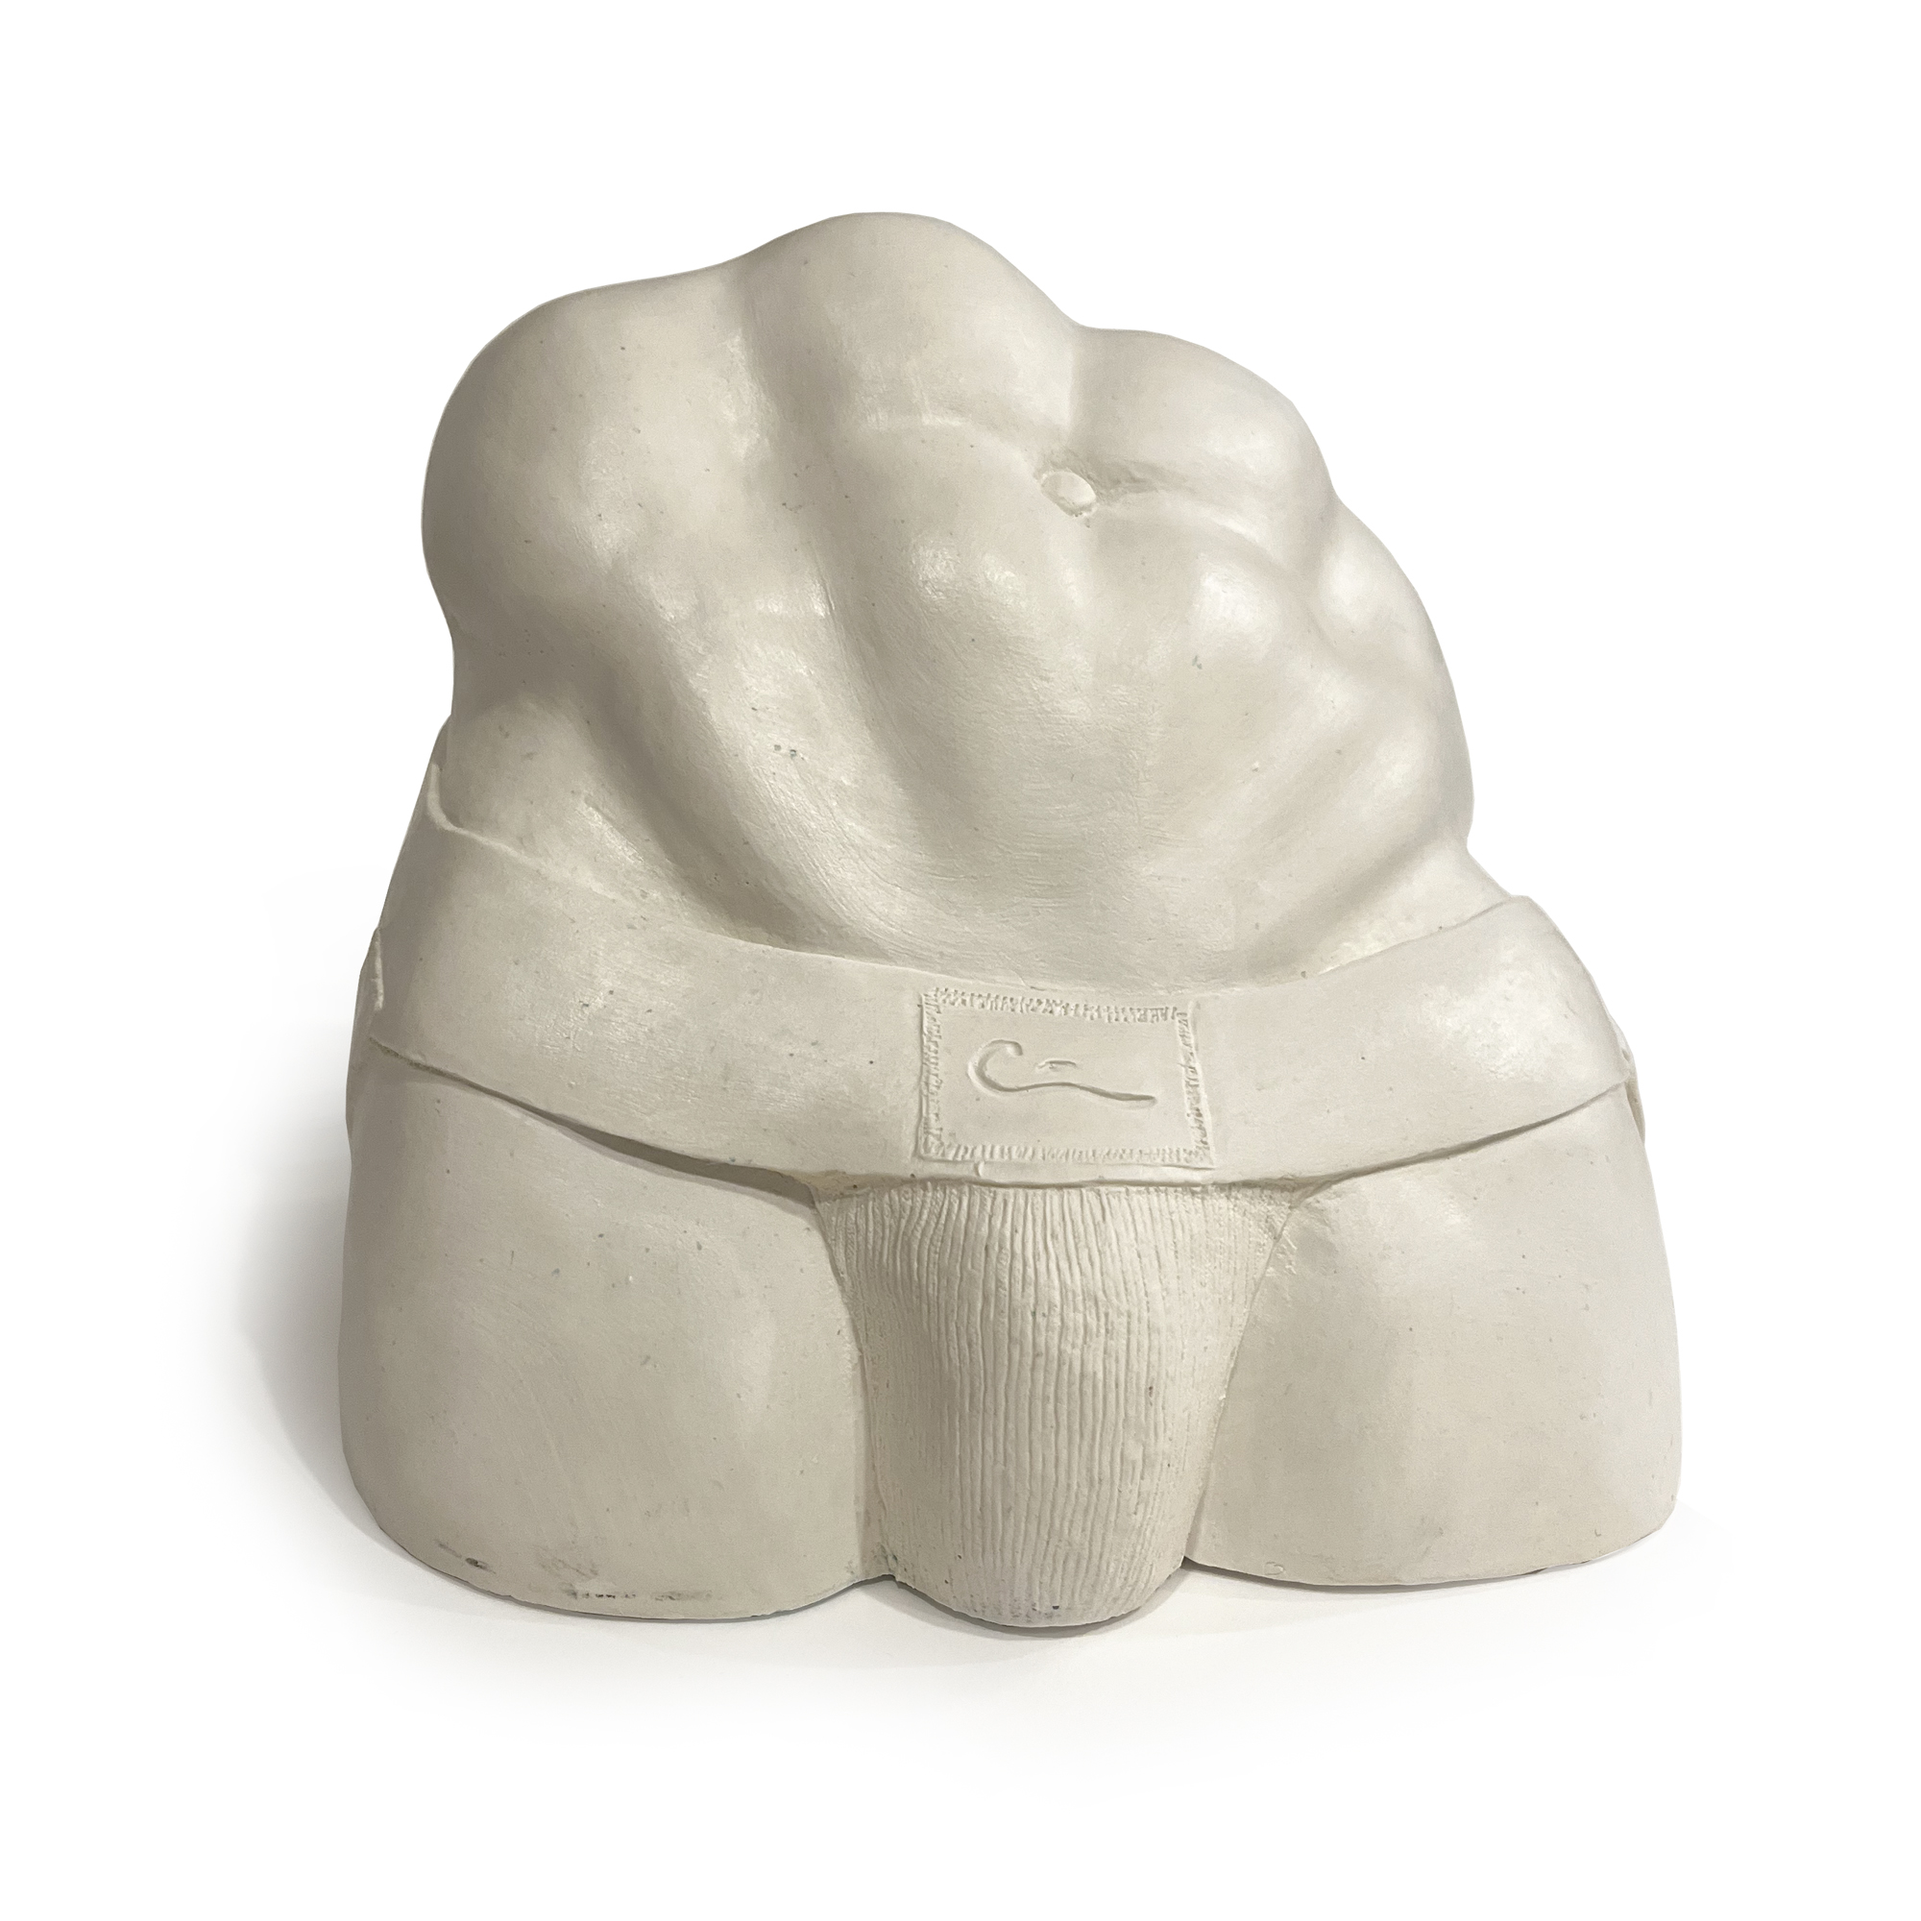
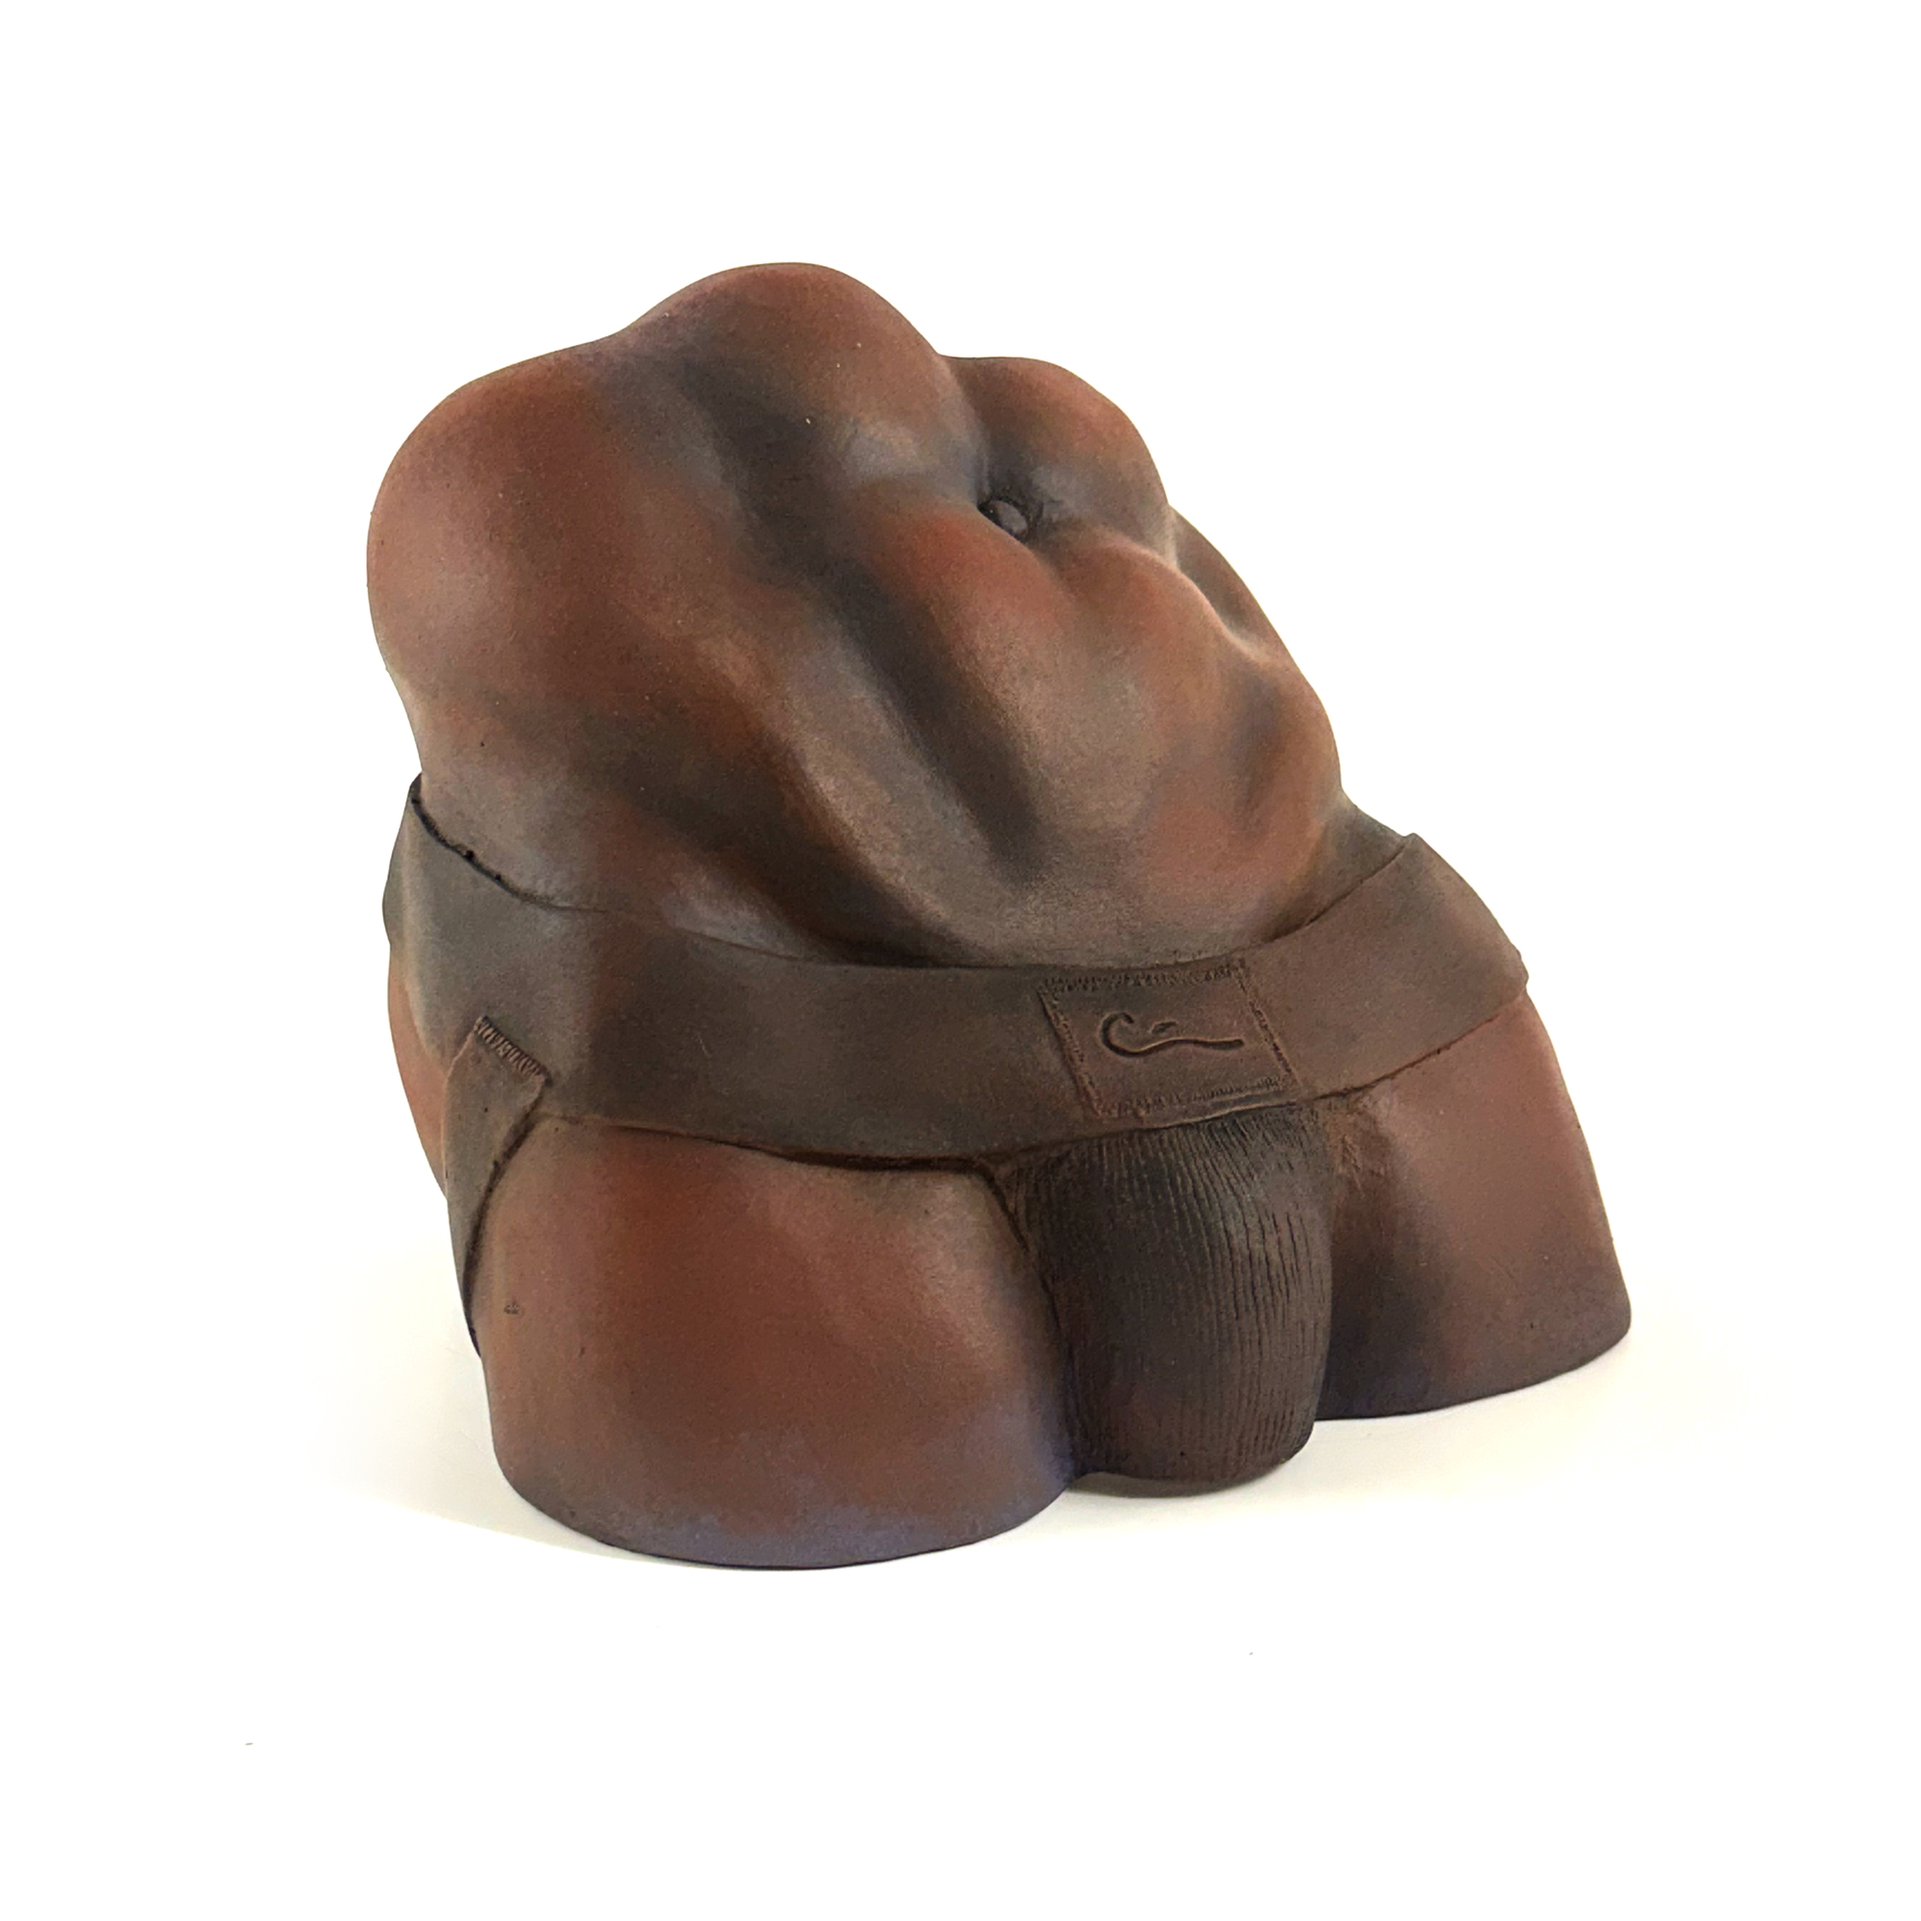
Update

diff --git a/gallery/jockstrap005.html b/gallery/jockstrap005.html
@@ -52,7 +52,7 @@
 	   
 		<div class="item2">
 			
-			<div id="product-image"><img class="artimagebig" src="sculptures/Jockstrap_004a.jpg" id="0" alt="Jockstrap #04"></div>
+			<div id="product-image"><img class="artimagebig" src="sculptures/Jockstrap_005b.jpg" id="0" alt="Jockstrap #05"></div>
 			
 		</div>
 
@@ -70,7 +70,7 @@
 			<table class="tableproduct">
 		   		<tr>
 					<td align="right"><span class="bodyproduct">NUMBER:</span></td>
-					<th align="left"><span class="bodyproductbold">004</span></th>
+					<th align="left"><span class="bodyproductbold">005</span></th>
 			   </tr>
 		   		<tr>
 					<td align="right"><span class="bodyproduct">MATERIAL:</span></td>
@@ -100,9 +100,9 @@
 
 
 					<!-- Thumbs -->
-					<div class="product-image-thumbnail"><img src="sculptures/Jockstrap_004a.jpg" id="1" class="thumb" onclick="preview(this)" alt="image 0"></div>
-					<div class="product-image-thumbnail"><img src="sculptures/Jockstrap_004b.jpg" id="2" class="thumb" onclick="preview(this)" alt="image 2"></div>
-					<div class="product-image-thumbnail"><img src="sculptures/Jockstrap_004c.jpg" id="3" class="thumb" onclick="preview(this)" alt="image 3"></div>
+					<div class="product-image-thumbnail"><img src="sculptures/Jockstrap_005a.jpg" id="1" class="thumb" onclick="preview(this)" alt="image 0"></div>
+					<div class="product-image-thumbnail"><img src="sculptures/Jockstrap_005b.jpg" id="2" class="thumb" onclick="preview(this)" alt="image 2"></div>
+					<div class="product-image-thumbnail"><img src="sculptures/Jockstrap_005c.jpg" id="3" class="thumb" onclick="preview(this)" alt="image 3"></div>
 
 
 					</div>

diff --git a/gallery/index.html b/gallery/index.html
@@ -427,7 +427,13 @@
 			<span class="body">#01 In Sweden</span></div>
 
 		<div class="artcontainersmall"><a href="jockstrap003.html"><img class="artimage" src="sculptures/Jockstrap_003a.jpg" alt="Jockstrap #003"></a><br>
-			<span class="body">#03 &nbsp; SOLD</span></div>
+			<span class="body">#03 &nbsp; DONATION</span></div>
+			
+		<div class="artcontainersmall"><a href="jockstrap003.html"><img class="artimage" src="sculptures/Jockstrap_004a.jpg" alt="Jockstrap #004"></a><br>
+			<span class="body">#04 &nbsp; </span></div>
+			
+		<div class="artcontainersmall"><a href="jockstrap003.html"><img class="artimage" src="sculptures/Jockstrap_005b.jpg" alt="Jockstrap #005"></a><br>
+			<span class="body">#05 &nbsp; </span></div>
 
 
 		
